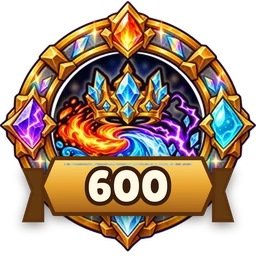
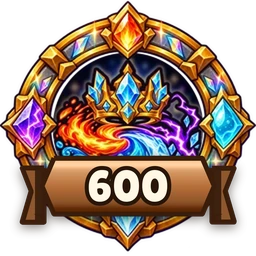
Art review fixes: clean monster edges, bronze shield-bearer, clearer attune ring, tiered medal ribbons; tour trailer and new covers (build 20261104j)
Claude-Session: https://claude.ai/code/session_01Db81amatEPDW2nLKxxY9Rn

Changed region(s): [[0.0625, 0.5938, 0.9375, 0.9062], [0.4062, 0.6875, 0.4375, 0.7188]]

diff --git a/game/index.html b/game/index.html
@@ -1,9 +1,9 @@
 <!doctype html>
-<html lang="en"><head><meta charset="utf-8"><meta http-equiv="Content-Security-Policy" content="default-src 'self'; script-src 'self' https://sdk.crazygames.com https://*.crazygames.com; style-src 'self' 'unsafe-inline'; img-src 'self' data: blob: https:; media-src 'self' data: blob:; font-src 'self' data:; connect-src 'self' https:; frame-src https:; object-src 'none'; base-uri 'self'; form-action 'self'"><meta name="viewport" content="width=device-width,initial-scale=1"><title>Warden of Power · First Watch</title><link rel="preload" href="assets/fonts/LilitaOne-Regular.ttf" as="font" type="font/ttf" crossorigin><link rel="stylesheet" href="style.css?v=20261104i">
-<link rel="stylesheet" href="coach.css?v=20261104i">
-<link rel="stylesheet" href="badges.css?v=20261104i"><link rel="stylesheet" href="guide.css?v=20261104i">
-<link rel="stylesheet" href="skilltree.css?v=20261104i">
-<link rel="stylesheet" href="feedback.css?v=20261104i"><script src="boot-gate.js?v=20261104i"></script><link rel="stylesheet" href="ui-polish.css?v=20261104i"></head>
+<html lang="en"><head><meta charset="utf-8"><meta http-equiv="Content-Security-Policy" content="default-src 'self'; script-src 'self' https://sdk.crazygames.com https://*.crazygames.com; style-src 'self' 'unsafe-inline'; img-src 'self' data: blob: https:; media-src 'self' data: blob:; font-src 'self' data:; connect-src 'self' https:; frame-src https:; object-src 'none'; base-uri 'self'; form-action 'self'"><meta name="viewport" content="width=device-width,initial-scale=1"><title>Warden of Power · First Watch</title><link rel="preload" href="assets/fonts/LilitaOne-Regular.ttf" as="font" type="font/ttf" crossorigin><link rel="stylesheet" href="style.css?v=20261104j">
+<link rel="stylesheet" href="coach.css?v=20261104j">
+<link rel="stylesheet" href="badges.css?v=20261104j"><link rel="stylesheet" href="guide.css?v=20261104j">
+<link rel="stylesheet" href="skilltree.css?v=20261104j">
+<link rel="stylesheet" href="feedback.css?v=20261104j"><script src="boot-gate.js?v=20261104j"></script><link rel="stylesheet" href="ui-polish.css?v=20261104j"></head>
 <body><main id="app"><div id="gameStage" aria-label="Warden of Power game">
 <canvas id="battle" width="1000" height="600" aria-label="Battlefield. Select an element and click clear ground to build. Accessible coordinate controls are in the command reference."></canvas>
 <div class="edge-shade" aria-hidden="true"></div><div class="frame-corner tl" aria-hidden="true"></div><div class="frame-corner tr" aria-hidden="true"></div><div class="frame-corner bl" aria-hidden="true"></div><div class="frame-corner br" aria-hidden="true"></div>
@@ -21,7 +21,7 @@
 <dialog id="badges"><div class="dialog-head"><h2>Warden’s record</h2><button data-close aria-label="Close achievements">✕</button></div><p id="profileSummary" class="muted"></p><div id="achievementList" class="achievement-list"></div><p class="muted">Badges are saved in this browser. Choose an earned badge to show on your profile.</p></dialog>
 
 <dialog id="skillsDialog" class="st-scope" aria-labelledby="bSkillsTitle"><div class="skills-card"><header class="overlay-head"><div><span class="eyebrow">THE WARDEN'S CONDUITS · BATTLE PAUSED</span><h2 id="bSkillsTitle">Skill tree</h2></div><div class="overlay-wallet"><span>✦ <b id="skillsResonance">0</b> Resonance</span></div><button class="overlay-close" data-close aria-label="Close skill tree">×</button></header><div class="skills-body"><div id="board" class="board"></div><div id="skillDetail" class="skill-detail"></div></div><p class="overlay-foot">Spend Resonance without leaving the fight. New ranks take effect the moment you buy them. Reassigning skills is done in the hub.</p></div></dialog><dialog id="ascension" class="ascension-card" aria-labelledby="ascTitle"><div class="asc-rays" aria-hidden="true"></div><span class="eyebrow">THE WARDEN TRIAL IS PASSED</span><div class="asc-medal"><img id="ascBadge" alt="" width="128" height="128"><b id="ascRoman">I</b></div><h2 id="ascTitle">Ascension I</h2><p id="ascBanner" class="asc-banner"></p><p id="ascPower" class="asc-power"></p><button class="primary" data-close>Continue the climb</button></dialog><dialog id="restPoint" class="ascension-card rest-card" aria-labelledby="restTitle"><div class="asc-rays" aria-hidden="true"></div><span class="eyebrow" id="restEyebrow">WAVE 100 HELD</span><div class="rest-medal" aria-hidden="true"><b id="restWave">100</b><small>WAVES</small></div><h2 id="restTitle">A moment to breathe</h2><p id="restLine" class="asc-banner">The Engine hums quietly. Nothing moves until you say so.</p><p id="restStats" class="asc-power rest-stats"></p><p id="restCare" class="rest-care"></p><div id="restOffer"></div><div class="rest-actions"><button id="restSkills" class="primary"><svg class="ico-tome" viewBox="0 0 24 24" aria-hidden="true"><path d="M7 16.5h12.6v4H7z" fill="#fff3d6"/><path d="M8 17.8h11M8 19.2h11" stroke="#b89a6a" stroke-width=".7"/><path d="M7 1.8h11.1a1.5 1.5 0 0 1 1.5 1.5v13.4H7z" fill="currentColor"/><path d="M4.4 3.8a2 2 0 0 1 2-2H7.6v19.4H6.4a2 2 0 0 1-2-2z" fill="currentColor" opacity=".72"/><path d="M15.2 16.5v6.2l1.3-1.3 1.3 1.3v-6.2z" fill="#c8453a"/><path d="M13.3 4.8l3.1 4-3.1 4-3.1-4z" fill="#2a1d17"/><path d="M13.3 6.9l1.5 1.9-1.5 1.9-1.5-1.9z" fill="currentColor"/></svg> <span id="restSkillsText">Strengthen your towers</span></button><button id="restGo" data-close>Continue the climb</button><button id="restHub" class="ghost-btn">Rest in the hub · continue later</button></div></dialog><dialog id="result"><span class="eyebrow">CONTAINMENT REPORT</span><h2 id="resultTitle"></h2><div id="resultBody"></div><button id="toHub" class="primary">Return to the hub</button><button id="nextLevel" hidden>Next level</button><button id="playAgain">Play again</button><button id="resultBadges">View badges</button></dialog>
-<script src="music.js?v=20261104i"></script><script src="campaign.js?v=20261104i"></script><script src="progression.js?v=20261104i"></script>
-<script src="feedback.js?v=20261104i"></script><script src="skilltree.js?v=20261104i"></script><script src="engine.js?v=20261104i"></script><script src="ground.js?v=20261104i"></script><script src="tower-layout.js?v=20261104i"></script><script src="portals.js?v=20261104i"></script><script src="tutorial.js?v=20261104i"></script><script src="badges.js?v=20261104i"></script>
-<script src="guide.js?v=20261104i"></script><script src="ads.js?v=20261104i"></script><script src="record.js?v=20261104i"></script><script src="tip.js?v=20261104i"></script><script src="guided.js?v=20261104i"></script><script src="game.js?v=20261104i"></script>
-<script src="coach.js?v=20261104i"></script></main></body></html>
+<script src="music.js?v=20261104j"></script><script src="campaign.js?v=20261104j"></script><script src="progression.js?v=20261104j"></script>
+<script src="feedback.js?v=20261104j"></script><script src="skilltree.js?v=20261104j"></script><script src="engine.js?v=20261104j"></script><script src="ground.js?v=20261104j"></script><script src="tower-layout.js?v=20261104j"></script><script src="portals.js?v=20261104j"></script><script src="tutorial.js?v=20261104j"></script><script src="badges.js?v=20261104j"></script>
+<script src="guide.js?v=20261104j"></script><script src="ads.js?v=20261104j"></script><script src="record.js?v=20261104j"></script><script src="tip.js?v=20261104j"></script><script src="guided.js?v=20261104j"></script><script src="game.js?v=20261104j"></script>
+<script src="coach.js?v=20261104j"></script></main></body></html>

diff --git a/game/game.js b/game/game.js
@@ -357,14 +357,16 @@ function drawAttuned(e,image,rect,width,h,alpha){const L=ATT_LOOK[e.attune];if(!
  else if(L.mark==='spark'){ctx.strokeStyle='#e7d2ff';ctx.lineWidth=1.5;const k=Math.floor(t*10)%4;ctx.beginPath();ctx.moveTo(x0-width*.3+k*4,y0+h*.2);ctx.lineTo(x0-width*.18+k*3,y0+h*.3);ctx.lineTo(x0-width*.25,y0+h*.36);ctx.moveTo(x0+width*.25,y0+h*.3);ctx.lineTo(x0+width*.32-k*2,y0+h*.42);ctx.stroke()}ctx.restore()}
 // Role art (Nov 4 2026, user-approved): each campaign role has its own painted walk cycle on enemy-roles.webp
 // (built from art/guides/roles, see art/ASSETS.md); rows: [y, h, cell w, fps]. Base kinds keep enemy-walk.png.
+// The shield-bearer's stone takes a bronze cast so it reads apart from a plain golem at a glance (art review Nov 4).
+const SHIELD_CAST={tint:'#d9913a',alpha:.2};
 const ROLE_ART={shield:[0,142,162,6],diver:[142,141,162,8],runner:[283,116,167,12],splitter:[399,140,161,8],mini:[399,140,161,8]};
 // Rank and attunement read at a glance: a ground ring under the feet (element colour, silver for elite, gold for champion).
-function groundMark(e,width,factor){const L=e.attune&&ATT_LOOK[e.attune],rx=width*.5,ry=6*factor,t=e.anim||0;ctx.save();
+function groundMark(e,width,factor){if(globalThis.__storeCapture)return;const L=e.attune&&ATT_LOOK[e.attune],rx=width*.5,ry=6*factor,t=e.anim||0;ctx.save();
  if(e.champion){ctx.shadowColor='#ffd76a';ctx.shadowBlur=10;ctx.strokeStyle='#f4c95a';ctx.lineWidth=2.6;ctx.globalAlpha=.85+.15*Math.sin(t*4);ctx.beginPath();ctx.ellipse(e.x,e.y,rx+3,ry+2,0,0,Math.PI*2);ctx.stroke()}
  else if(e.elite){ctx.strokeStyle='#e6eef5';ctx.lineWidth=1.6;ctx.globalAlpha=.85;ctx.beginPath();ctx.ellipse(e.x,e.y,rx+2,ry+1.5,0,0,Math.PI*2);ctx.stroke();ctx.globalAlpha=.5;ctx.beginPath();ctx.ellipse(e.x,e.y,rx+6,ry+3.5,0,0,Math.PI*2);ctx.stroke()}
- if(L){ctx.shadowBlur=0;ctx.strokeStyle=L.tint;ctx.lineWidth=2.2;ctx.globalAlpha=.9;ctx.setLineDash([7,5]);ctx.lineDashOffset=-t*18;ctx.beginPath();ctx.ellipse(e.x,e.y,rx-2,ry,0,0,Math.PI*2);ctx.stroke();ctx.setLineDash([])}
+ if(L){ctx.shadowBlur=0;ctx.globalAlpha=.9;ctx.beginPath();ctx.ellipse(e.x,e.y,rx-5,Math.max(3,ry-1.5),0,0,Math.PI*2);ctx.strokeStyle='#1a1424';ctx.lineWidth=4.2;ctx.setLineDash([6,6]);ctx.lineDashOffset=-t*18;ctx.stroke();ctx.strokeStyle=L.tint;ctx.lineWidth=2.4;ctx.stroke();ctx.setLineDash([])}
  ctx.restore()}
-function rankPip(e,top,alpha){if(!e.champion&&!e.elite)return;const x=e.x,y=top-15;ctx.save();ctx.globalAlpha=alpha;ctx.fillStyle=e.champion?'#f4c95a':'#e6eef5';ctx.strokeStyle='#142521';ctx.lineWidth=1.5;ctx.beginPath();
+function rankPip(e,top,alpha){if(globalThis.__storeCapture)return;if(!e.champion&&!e.elite)return;const x=e.x,y=top-15;ctx.save();ctx.globalAlpha=alpha;ctx.fillStyle=e.champion?'#f4c95a':'#e6eef5';ctx.strokeStyle='#142521';ctx.lineWidth=1.5;ctx.beginPath();
  if(e.champion){ctx.moveTo(x-7,y+4);ctx.lineTo(x-7,y-3);ctx.lineTo(x-3.5,y);ctx.lineTo(x,y-5);ctx.lineTo(x+3.5,y);ctx.lineTo(x+7,y-3);ctx.lineTo(x+7,y+4);ctx.closePath()}
  else{ctx.moveTo(x-5,y-2);ctx.lineTo(x,y+3);ctx.lineTo(x+5,y-2)}
  ctx.stroke();if(e.champion)ctx.fill();ctx.restore()}
@@ -378,7 +380,7 @@ function roleMark(e,width,h,alpha){const t=e.anim||0,x=e.x,y=e.y;ctx.save();ctx.
  else if((e.kind==='splitter'||e.kind==='mini')&&!art.roles){ctx.strokeStyle='#f0dcff';ctx.lineWidth=e.kind==='mini'?1:1.8;ctx.globalAlpha=alpha*(.6+.4*Math.sin(t*5));ctx.beginPath();ctx.moveTo(x,y-h*.95);ctx.lineTo(x-4,y-h*.65);ctx.lineTo(x+3,y-h*.45);ctx.lineTo(x-2,y-h*.2);ctx.stroke()}
  ctx.restore()}
 function enemySprite(e,corpse=false){e={...e,...G.project(e.x,e.y)};const kind=SPRITE_OF[e.kind]||e.kind;const row={slime:0,beetle:1,golem:2}[kind];const factor=e.kind==='boss'?1.35:e.kind==='splitter'?1.25:e.kind==='mini'?.72:e.kind==='runner'?.9:e.champion?1.45:e.elite?1.18:1;let width=(kind==='golem'?65:kind==='beetle'?54:49)*factor;ctx.fillStyle='#10241966';ctx.beginPath();ctx.ellipse(e.x,e.y,width*.37,5*factor,0,0,Math.PI*2);ctx.fill();if(!corpse&&!e.submerged)groundMark(e,width,factor);let rect,image,alpha=1;if(corpse){const col=Math.min(5,Math.floor(e.age/.12));const y=[0,345,580][row],h=[335,230,295][row];rect=[col*art.death.width/6,y,art.death.width/6,h];image=art.death;alpha=e.age<.85?1:Math.max(0,1-(e.age-.85)/.5)}else{const fps=[8,12,6][row],col=e.frozen>0?0:Math.floor(e.anim*fps)%6;const rows=[[[20,290],[315,320],[640,250],[900,260],[1170,310],[1490,280]],[[20,300],[330,280],[615,280],[900,290],[1195,285],[1490,280]],[[20,315],[335,285],[620,285],[905,295],[1200,290],[1490,280]]];const[sx,sw]=rows[row][col];rect=[sx,[40,340,565][row],sw,[290,225,275][row]];image=art.walk;const R=art.roles&&ROLE_ART[e.kind];if(R){const c=e.frozen>0?0:Math.floor(e.anim*R[3])%6;rect=[c*R[2],R[0],R[2],R[1]];image=art.roles;width*=1.08}}alpha*=e.distance<42?Math.max(0,e.distance/42):e.distance>game.routeOf(e).total-47?Math.max(0,(game.routeOf(e).total-e.distance)/47):1;const h=width*rect[3]/rect[2];if(e.submerged&&!corpse){ctx.save();ctx.strokeStyle='#bdf3ff';ctx.lineWidth=1.6;for(let j=0;j<3;j++){const ph=((e.dive||0)*1.4+j*.33)%1;ctx.globalAlpha=alpha*(1-ph);ctx.beginPath();ctx.ellipse(e.x,e.y-4,width*(.25+ph*.4),5+ph*4,0,0,Math.PI*2);ctx.stroke()}ctx.restore();return}
- const look=image===art.roles?null:ROLE_LOOK[e.kind];if(look&&!corpse&&!e.attune)drawTinted(e,image,rect,width,h,alpha,look);else if(e.attune&&!corpse)drawAttuned(e,image,rect,width,h,alpha);else crop(ctx,image,rect,e.x-width/2,e.y-h,width,h,e.dx<0,alpha);if(!corpse)roleMark(e,width,h,alpha);if(corpse||!game.exposed(e))return;
+ const look=image===art.roles?(e.kind==='shield'?SHIELD_CAST:null):ROLE_LOOK[e.kind];if(look&&!corpse&&!e.attune)drawTinted(e,image,rect,width,h,alpha,look);else if(e.attune&&!corpse)drawAttuned(e,image,rect,width,h,alpha);else crop(ctx,image,rect,e.x-width/2,e.y-h,width,h,e.dx<0,alpha);if(!corpse)roleMark(e,width,h,alpha);if(corpse||!game.exposed(e))return;
  const top=e.y-h;if(!globalThis.__storeCapture){ctx.fillStyle='#142521';ctx.fillRect(e.x-width/2,top-9,width,4);ctx.fillStyle=e.kind==='boss'?'#e8bf6b':'#a5c58e';ctx.fillRect(e.x-width/2,top-9,width*e.hp/e.maxHp,4)}rankPip(e,top,alpha);
  if(e.soaked>0){ctx.fillStyle='#65d5df';for(let j=0;j<3;j++){const phase=((e.anim*1.5+j*.27)%1);ctx.beginPath();ctx.ellipse(e.x+(j-1)*width*.32,e.y-h+phase*h,1.6,3,0,0,Math.PI*2);ctx.fill()}}
  if(e.chilled>0){ctx.strokeStyle='#b9e9f3';ctx.lineWidth=1.3;ctx.beginPath();ctx.ellipse(e.x,e.y,width*.51,5,0,0,Math.PI*2);ctx.stroke()}

diff --git a/game/hub.html b/game/hub.html
@@ -6,12 +6,12 @@
 <meta name="viewport" content="width=device-width,initial-scale=1">
 <title>Warden of Power · The Containment Complex</title>
 <link rel="preload" href="assets/fonts/LilitaOne-Regular.ttf" as="font" type="font/ttf" crossorigin>
-<link rel="stylesheet" href="badges.css?v=20261104i">
-<link rel="stylesheet" href="hub.css?v=20261104i">
-<link rel="stylesheet" href="skilltree.css?v=20261104i">
-<link rel="stylesheet" href="guide.css?v=20261104i">
-<link rel="stylesheet" href="feedback.css?v=20261104i">
-<link rel="stylesheet" href="ui-polish.css?v=20261104i"></head>
+<link rel="stylesheet" href="badges.css?v=20261104j">
+<link rel="stylesheet" href="hub.css?v=20261104j">
+<link rel="stylesheet" href="skilltree.css?v=20261104j">
+<link rel="stylesheet" href="guide.css?v=20261104j">
+<link rel="stylesheet" href="feedback.css?v=20261104j">
+<link rel="stylesheet" href="ui-polish.css?v=20261104j"></head>
 <body>
 <main id="hub" aria-label="The Containment Complex, your home hub">
   <div id="mapFrame">
@@ -104,11 +104,11 @@
   <div id="guidedCard" class="guided-card" hidden role="status" aria-live="polite"></div><div id="momentBanner" class="moment-banner" hidden role="status"></div>
   <div id="toasts" aria-live="polite"></div>
 </main>
-<script src="music.js?v=20261104i"></script><script src="campaign.js?v=20261104i"></script><script src="progression.js?v=20261104i"></script><script src="skilltree.js?v=20261104i"></script>
-<script src="engine.js?v=20261104i"></script>
-<script src="badges.js?v=20261104i"></script>
-<script src="hub-gate.js?v=20261104i"></script>
-<script src="hubfx.js?v=20261104i"></script>
-<script src="feedback.js?v=20261104i"></script><script src="guide.js?v=20261104i"></script><script src="ads.js?v=20261104i"></script><script src="record.js?v=20261104i"></script><script src="tip.js?v=20261104i"></script><script src="guided.js?v=20261104i"></script><script src="hub.js?v=20261104i"></script>
+<script src="music.js?v=20261104j"></script><script src="campaign.js?v=20261104j"></script><script src="progression.js?v=20261104j"></script><script src="skilltree.js?v=20261104j"></script>
+<script src="engine.js?v=20261104j"></script>
+<script src="badges.js?v=20261104j"></script>
+<script src="hub-gate.js?v=20261104j"></script>
+<script src="hubfx.js?v=20261104j"></script>
+<script src="feedback.js?v=20261104j"></script><script src="guide.js?v=20261104j"></script><script src="ads.js?v=20261104j"></script><script src="record.js?v=20261104j"></script><script src="tip.js?v=20261104j"></script><script src="guided.js?v=20261104j"></script><script src="hub.js?v=20261104j"></script>
 </body>
 </html>

diff --git a/tools/art/number_badges.py b/tools/art/number_badges.py
@@ -19,39 +19,48 @@ def ribbon(text, top, mid, bot, edge, ink):
     d = ImageDraw.Draw(lay)
     y0, y1 = 158 * K, 214 * K
     x0, x1 = 42 * K, 214 * K
-    notch = 14 * K
-    # tails behind the band
+    ow = 5 * K                                   # outline weight close to the medal rim's dark line
+    dark = tuple(int(c * .55) for c in bot)
     for sx in (-1, 1):
         cx = W / 2 + sx * 84 * K
         tail = [(cx, y0 + 10 * K), (cx + sx * 22 * K, y0 + 10 * K), (cx + sx * 13 * K, (y0 + y1) / 2 + 5 * K),
                 (cx + sx * 22 * K, y1 + 8 * K), (cx, y1 + 8 * K)]
-        d.polygon(tail, fill=tuple(int(c * .62) for c in bot) + (255,), outline=edge + (255,), width=3 * K)
+        d.polygon(tail, fill=tuple(int(c * .78) for c in mid) + (255,))
+        # tail shading: darker toward the band, where it folds behind
+        fold = [(cx, y0 + 10 * K), (cx + sx * 9 * K, y0 + 10 * K), (cx + sx * 9 * K, y1 + 8 * K), (cx, y1 + 8 * K)]
+        d.polygon(fold, fill=dark + (255,))
+        d.line(tail + [tail[0]], fill=edge + (255,), width=ow, joint='curve')
+        # the fold: a small dark triangle tucked under the band's end
+        tri = [(cx - sx * 2 * K, y1), (cx + sx * 10 * K, y1), (cx - sx * 2 * K, y1 + 8 * K)]
+        d.polygon(tri, fill=edge + (255,))
     band = [(x0 + 12 * K, y0), (x1 - 12 * K, y0), (x1, (y0 + y1) / 2), (x1 - 12 * K, y1), (x0 + 12 * K, y1), (x0, (y0 + y1) / 2)]
-    # vertical gradient fill through a mask
     mask = Image.new('L', (W, W), 0); ImageDraw.Draw(mask).polygon(band, fill=255)
-    grad = np.zeros((W, W, 3), np.float32)
     t = np.clip((np.arange(W) - y0) / (y1 - y0), 0, 1)[:, None]
     c = np.where(t < .5, np.array(top) * (1 - t * 2) + np.array(mid) * t * 2, np.array(mid) * (2 - t * 2) + np.array(bot) * (t * 2 - 1))
-    grad[:] = c[:, None, :]
+    # soft top highlight and bottom shade baked into the gradient
+    c = c + 40 * np.exp(-((t - .12) / .07) ** 2) - 30 * np.exp(-((t - .92) / .08) ** 2)
+    grad = np.repeat(np.clip(c, 0, 255)[:, None, :], W, axis=1).reshape(W, W, 3)
     g = Image.fromarray(grad.astype(np.uint8)).convert('RGBA'); g.putalpha(mask)
     lay.alpha_composite(g)
-    d.line(band + [band[0]], fill=edge + (255,), width=4 * K, joint='curve')
-    # inner highlight line
-    d.line([(x0 + 22 * K, y0 + 6 * K), (x1 - 22 * K, y0 + 6 * K)], fill=(255, 250, 225, 150), width=2 * K)
-    size = 44 * K if len(text) <= 3 else 40 * K
+    d.line(band + [band[0]], fill=edge + (255,), width=ow, joint='curve')
+    size = 44 * K if len(text) <= 3 else 46 * K
     f = ImageFont.truetype(FONT, size)
     bb = d.textbbox((0, 0), text, font=f)
     tx = (W - (bb[2] - bb[0])) / 2 - bb[0]; ty = (y0 + y1) / 2 - (bb[3] - bb[1]) / 2 - bb[1]
-    d.text((tx + 2 * K, ty + 3 * K), text, font=f, fill=(40, 20, 10, 170))
-    d.text((tx, ty), text, font=f, fill=ink + (255,), stroke_width=4 * K, stroke_fill=(58, 30, 12, 255))
+    d.text((tx + 2 * K, ty + 3 * K), text, font=f, fill=(30, 15, 8, 170))
+    d.text((tx, ty), text, font=f, fill=ink + (255,), stroke_width=4 * K, stroke_fill=(40, 22, 10, 255))
     return lay
 
 
 def main():
     base = Image.open(SRC).convert('RGBA').resize((256 * K, 256 * K), Image.LANCZOS)
-    gold = dict(top=(255, 222, 120), mid=(232, 162, 46), bot=(160, 92, 24), edge=(92, 48, 14), ink=(255, 248, 228))
-    white = dict(top=(255, 255, 248), mid=(236, 224, 196), bot=(190, 160, 110), edge=(110, 78, 30), ink=(255, 214, 92))
-    for n, text, st in [(600, '600', gold), (700, '700', gold), (800, '800', gold), (900, '900', gold), (1000, '1K', white)]:
+    cream = (255, 248, 228)
+    tiers = [(600, '600', dict(top=(240, 190, 140), mid=(184, 112, 58), bot=(112, 62, 30), edge=(58, 30, 12), ink=cream)),      # bronze
+             (700, '700', dict(top=(250, 252, 255), mid=(178, 190, 204), bot=(104, 116, 134), edge=(40, 44, 58), ink=cream)),    # silver
+             (800, '800', dict(top=(255, 230, 130), mid=(232, 162, 46), bot=(150, 86, 22), edge=(80, 42, 12), ink=cream)),       # gold
+             (900, '900', dict(top=(130, 200, 255), mid=(42, 112, 206), bot=(18, 48, 120), edge=(10, 22, 60), ink=cream)),       # sapphire
+             (1000, '1K', dict(top=(196, 140, 255), mid=(110, 50, 190), bot=(52, 18, 104), edge=(26, 8, 54), ink=(255, 226, 120)))]  # prismatic violet
+    for n, text, st in tiers:
         im = base.copy()
         r = ribbon(text, **st)
         sh = r.getchannel('A').filter(ImageFilter.GaussianBlur(5 * K)).point(lambda v: v * .5)

diff --git a/tools/art/key_roles.py b/tools/art/key_roles.py
@@ -1,0 +1,61 @@
+import numpy as np, json
+from PIL import Image
+from scipy import ndimage as nd
+a=np.asarray(Image.open('role-sheet-raw.png').convert('RGB')).astype(np.float32)
+r,g,b=a[...,0],a[...,1],a[...,2]
+# magenta-ness: how much r and b exceed g
+m=np.minimum(r,b)-g
+d=np.maximum(np.maximum(255-r,255-b),g)
+alpha=np.clip((d-45)/(105-45),0,1)
+# remove isolated specks / fill holes
+fg=alpha>0.5
+lab,n=nd.label(fg)
+# despill
+core=nd.binary_erosion(alpha>0.98,iterations=3)
+near=np.clip(1-np.abs(r-b)/60,0,1)
+sp=np.clip(m-5,0,None)*(~core)*near
+o=a.copy(); o[...,0]-=sp; o[...,2]-=sp
+mm=np.clip(np.minimum(o[...,0],o[...,2])-o[...,1],0,None)
+row=np.zeros(mm.shape,bool);row[:768]=True
+o[...,0]-=mm*row;o[...,2]-=mm*row
+speck=row&(r>150)&(b>150)&(g<110)
+alpha[speck]=0
+o[768:]=a[768:]
+o=np.clip(o,0,255)
+filled=np.zeros_like(alpha,bool)
+for ri in range(3,4):
+  for c in range(6):
+    sl=(slice(ri*256,(ri+1)*256),slice(c*256,(c+1)*256)); filled[sl]=nd.binary_fill_holes(alpha[sl]>0.5)
+hole=filled&(alpha<0.5)
+alpha=np.where(filled,np.maximum(alpha,0.999),alpha)
+o[hole]=a[hole]
+alpha=nd.gaussian_filter(alpha,0.6)
+rows=['shield','diver','runner','splitter']; meta={}
+TH=150
+frames=[]
+for ri,name in enumerate(rows):
+    boxes=[]
+    for c in range(6):
+        al=alpha[ri*256:(ri+1)*256,c*256:(c+1)*256]
+        mk=al>0.15
+        # keep components bigger than 30px
+        l,k=nd.label(mk); s=nd.sum(mk,l,range(1,k+1)); keep=np.isin(l,[i+1 for i,z in enumerate(s) if z>=30])
+        ys,xs=np.where(keep); boxes.append((xs.min(),ys.min(),xs.max()+1,ys.max()+1))
+    x0=min(b[0] for b in boxes)-3;y0=min(b[1] for b in boxes)-3;x1=max(b[2] for b in boxes)+3;y1=max(b[3] for b in boxes)+3
+    x0,y0=max(0,x0),max(0,y0);x1,y1=min(256,x1),min(256,y1)
+    meta[name]={'w':int(x1-x0),'h':int(y1-y0),'frames':[[int(b[0]-x0),int(b[2]-x0)] for b in boxes]}
+    for c in range(6):
+        sl=(slice(ri*256+y0,ri*256+y1),slice(c*256+x0,c*256+x1))
+        rgba=np.dstack([o[sl],alpha[sl]*255]).astype(np.uint8)
+        frames.append((name,c,Image.fromarray(rgba,'RGBA')))
+# pack: each row height = its h, width 6*w
+W=max(6*meta[n]['w'] for n in rows); H=sum(meta[n]['h'] for n in rows)
+sheet=Image.new('RGBA',(W,H)); y=0
+for n in rows:
+    meta[n]['y']=y
+    for name,c,im in frames:
+        if name==n: sheet.paste(im,(c*meta[n]['w'],y))
+    y+=meta[n]['h']
+sheet.save('enemy-roles.png',optimize=True); json.dump(meta,open('roles-meta.json','w'))
+print(sheet.size, json.dumps(meta))
+prev=Image.new('RGBA',sheet.size,(60,90,60,255)); prev.alpha_composite(sheet); prev.convert('RGB').save('roles-preview.jpg',quality=88)

diff --git a/tools/capture/tour_cut.py b/tools/capture/tour_cut.py
@@ -1,0 +1,51 @@
+"""tour_cut.py ASPECT(L|P) TOURDIR HUB.jpg TITLE.jpg OUTDIR - trailer as a tour (user, Nov 4 2026): the cover, the restored
+complex, a short clip from each sector, ending on the Aetherheart Engine. Cross-fades between clips, 30 fps."""
+import os, sys, shutil
+from PIL import Image
+asp, tour, hubp, titlep, out = sys.argv[1:6]
+W, H = (1920, 1080) if asp == 'L' else (1080, 1620)
+shutil.rmtree(out, ignore_errors=True); os.makedirs(out)
+ENGINE_INNER = (150, 85, 2730, 1535)          # inside the Engine's pipe frame (art review: no border look)
+
+
+def fit(im, cx):
+    """cover-fit im to WxH; cx = horizontal centre (0..1) for the portrait crop"""
+    s = max(W / im.width, H / im.height); im = im.resize((round(im.width * s), round(im.height * s)), Image.LANCZOS)
+    x = min(max(0, round(im.width * cx - W / 2)), im.width - W); y = (im.height - H) // 2
+    return im.crop((x, y, x + W, y + H))
+
+
+def clip_frames(name, n, cx, inner=False):
+    for i in range(n):
+        im = Image.open(f'{tour}/{name}/f{i:04d}.jpg')
+        if inner: im = im.crop(ENGINE_INNER)
+        yield fit(im, cx)
+
+
+def hub_frames(n):
+    hub = Image.open(hubp).convert('RGB')
+    for i in range(n):
+        z = 1 + .08 * i / (n - 1)
+        w, h = hub.width / z, hub.height / z
+        cxp = hub.width * (.5 if asp == 'L' else .41); cyp = hub.height * .45
+        x0 = min(max(0, cxp - w / 2), hub.width - w); y0 = min(max(0, cyp - h / 2), hub.height - h)
+        im = hub.crop((round(x0), round(y0), round(x0 + w), round(y0 + h)))
+        yield fit(im, .5 if asp == 'L' else .41)
+
+
+title = Image.open(titlep).convert('RGB').resize((W, H), Image.LANCZOS)
+segs = [[title] * 30,
+        list(hub_frames(66)),
+        list(clip_frames('moonwell-1', 72, .45)),
+        list(clip_frames('emberheart-3', 72, .45)),
+        list(clip_frames('rimeglass-1', 72, .45)),
+        list(clip_frames('stormcrown-2', 72, .45)),
+        list(clip_frames('aetherheart-1', 180, .5, True))]
+X = 8
+frames = list(segs[0])
+for s in segs[1:]:
+    tail = frames[-X:]; frames = frames[:-X]
+    for k in range(X): frames.append(Image.blend(tail[k], s[k], (k + 1) / (X + 1)))
+    frames += s[X:]
+for i, f in enumerate(frames): f.save(f'{out}/{i:04d}.jpg', quality=93)
+print(asp, len(frames), 'frames', len(frames) / 30, 's')
